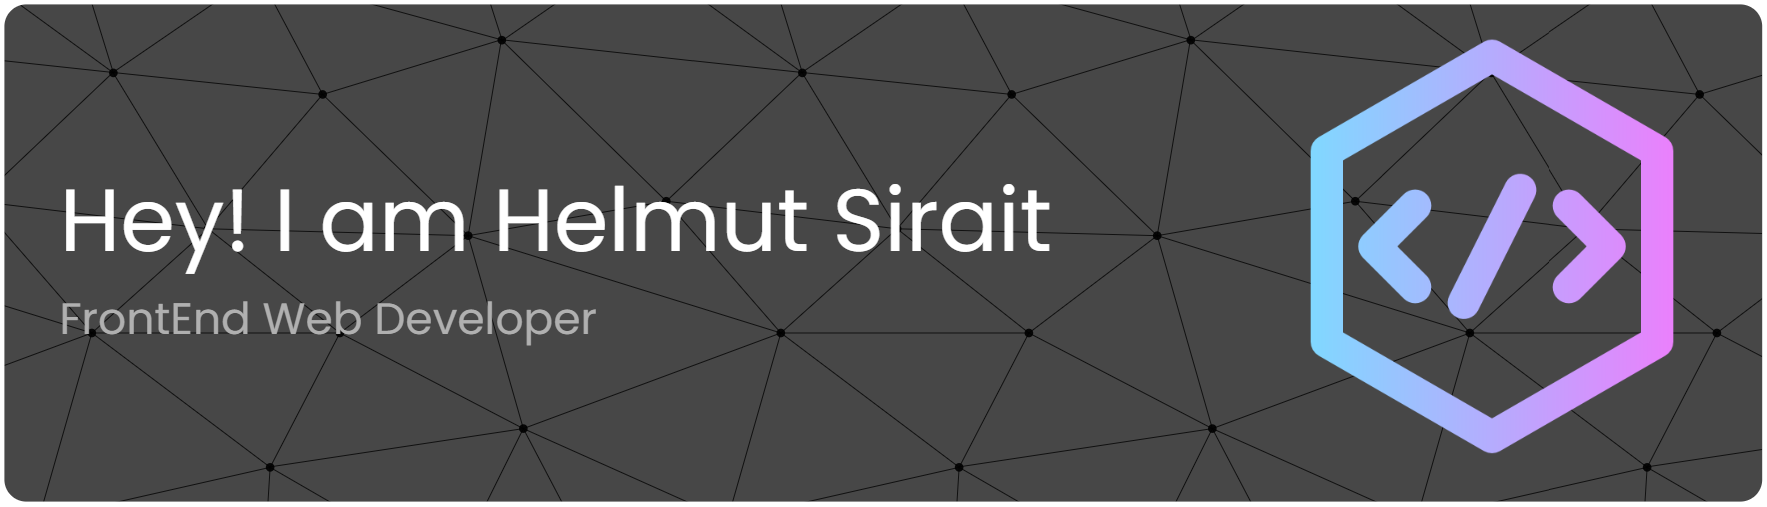
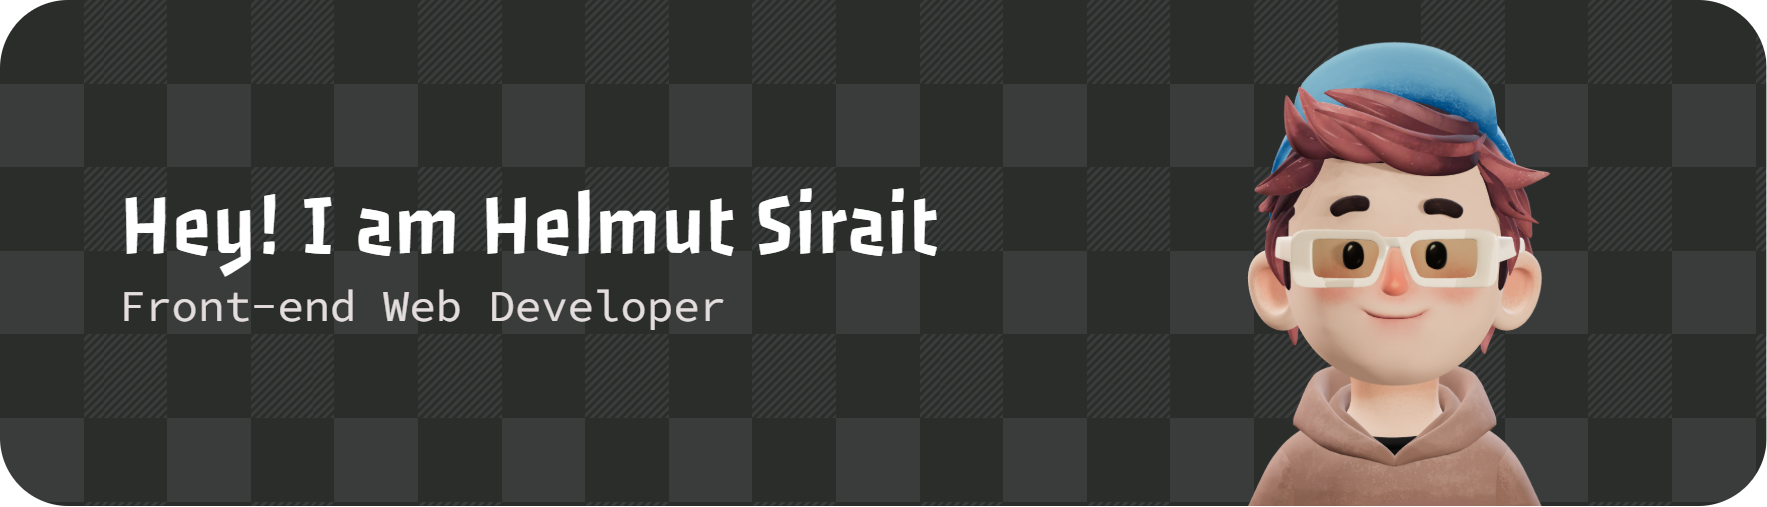
update profile thursday

diff --git a/README.md b/README.md
@@ -1,9 +1,12 @@
 ![Helmut Sirait](img/github-header-banner.png)
 ***
-## 👩💻 Tech Stack
-![HTML5](img/html-5.png) ![CSS3](img/css-3.png) ![JS](img/js.png) ![JS](img/php.png) ![Photosop](img/photoshop.png) ![Figma](img/figma.png) ![mysql](img/mysql.png) ![Bootstrap](img/bootstrap.png) ![React](img/react.png) ![IDE](https://skillicons.dev/icons?i=vscode,sublime&theme=dark)
+![Quote](https://github-readme-quotes-bay.vercel.app/quote?theme=dark&animation=grow_out_in)
 ***
-## 📱 Contact
+#### 👩💻 Tech Stack
+![HTML5](img/html-5.png) ![CSS3](img/css-3.png) ![JS](img/js.png) ![JS](img/php.png) ![Photosop](img/photoshop.png) ![Figma](img/figma.png) ![mysql](img/mysql.png) ![Bootstrap](img/bootstrap.png) ![React](img/react.png) ![vscode](img/vscode.ico) ![sublime](img/sublime.ico)
+***
+#### 📱 Contact
  [Facebook](https://www.facebook.com/helmutsirait)<br>[Instagram](https://www.instagram.com/helmutsirait_)
-
-
+ ***
+#### 🚀 My Github contributions summary
+![Anurag's GitHub stats](https://github-readme-stats.vercel.app/api?username=helmutsirait77&show_icons=true&theme=radical)
